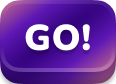
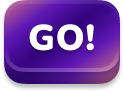
update image button

diff --git a/lib/src/views/fortune_wheel.dart b/lib/src/views/fortune_wheel.dart
@@ -158,7 +158,7 @@ class _FortuneWheelState extends State<FortuneWheel>
                 ? _handleSpinByPriorityPressed
                 : _handleSpinByRandomPressed),
             normalImage: 'packages/flutter_fortune_wheel/assets/images/play_button.png',
-            pressedImage: 'packages/flutter_fortune_wheel/assets/images/play_button.png'
+            pressedImage: 'packages/flutter_fortune_wheel/assets/images/play_button_pressed.png'
           ),
     );
   }
